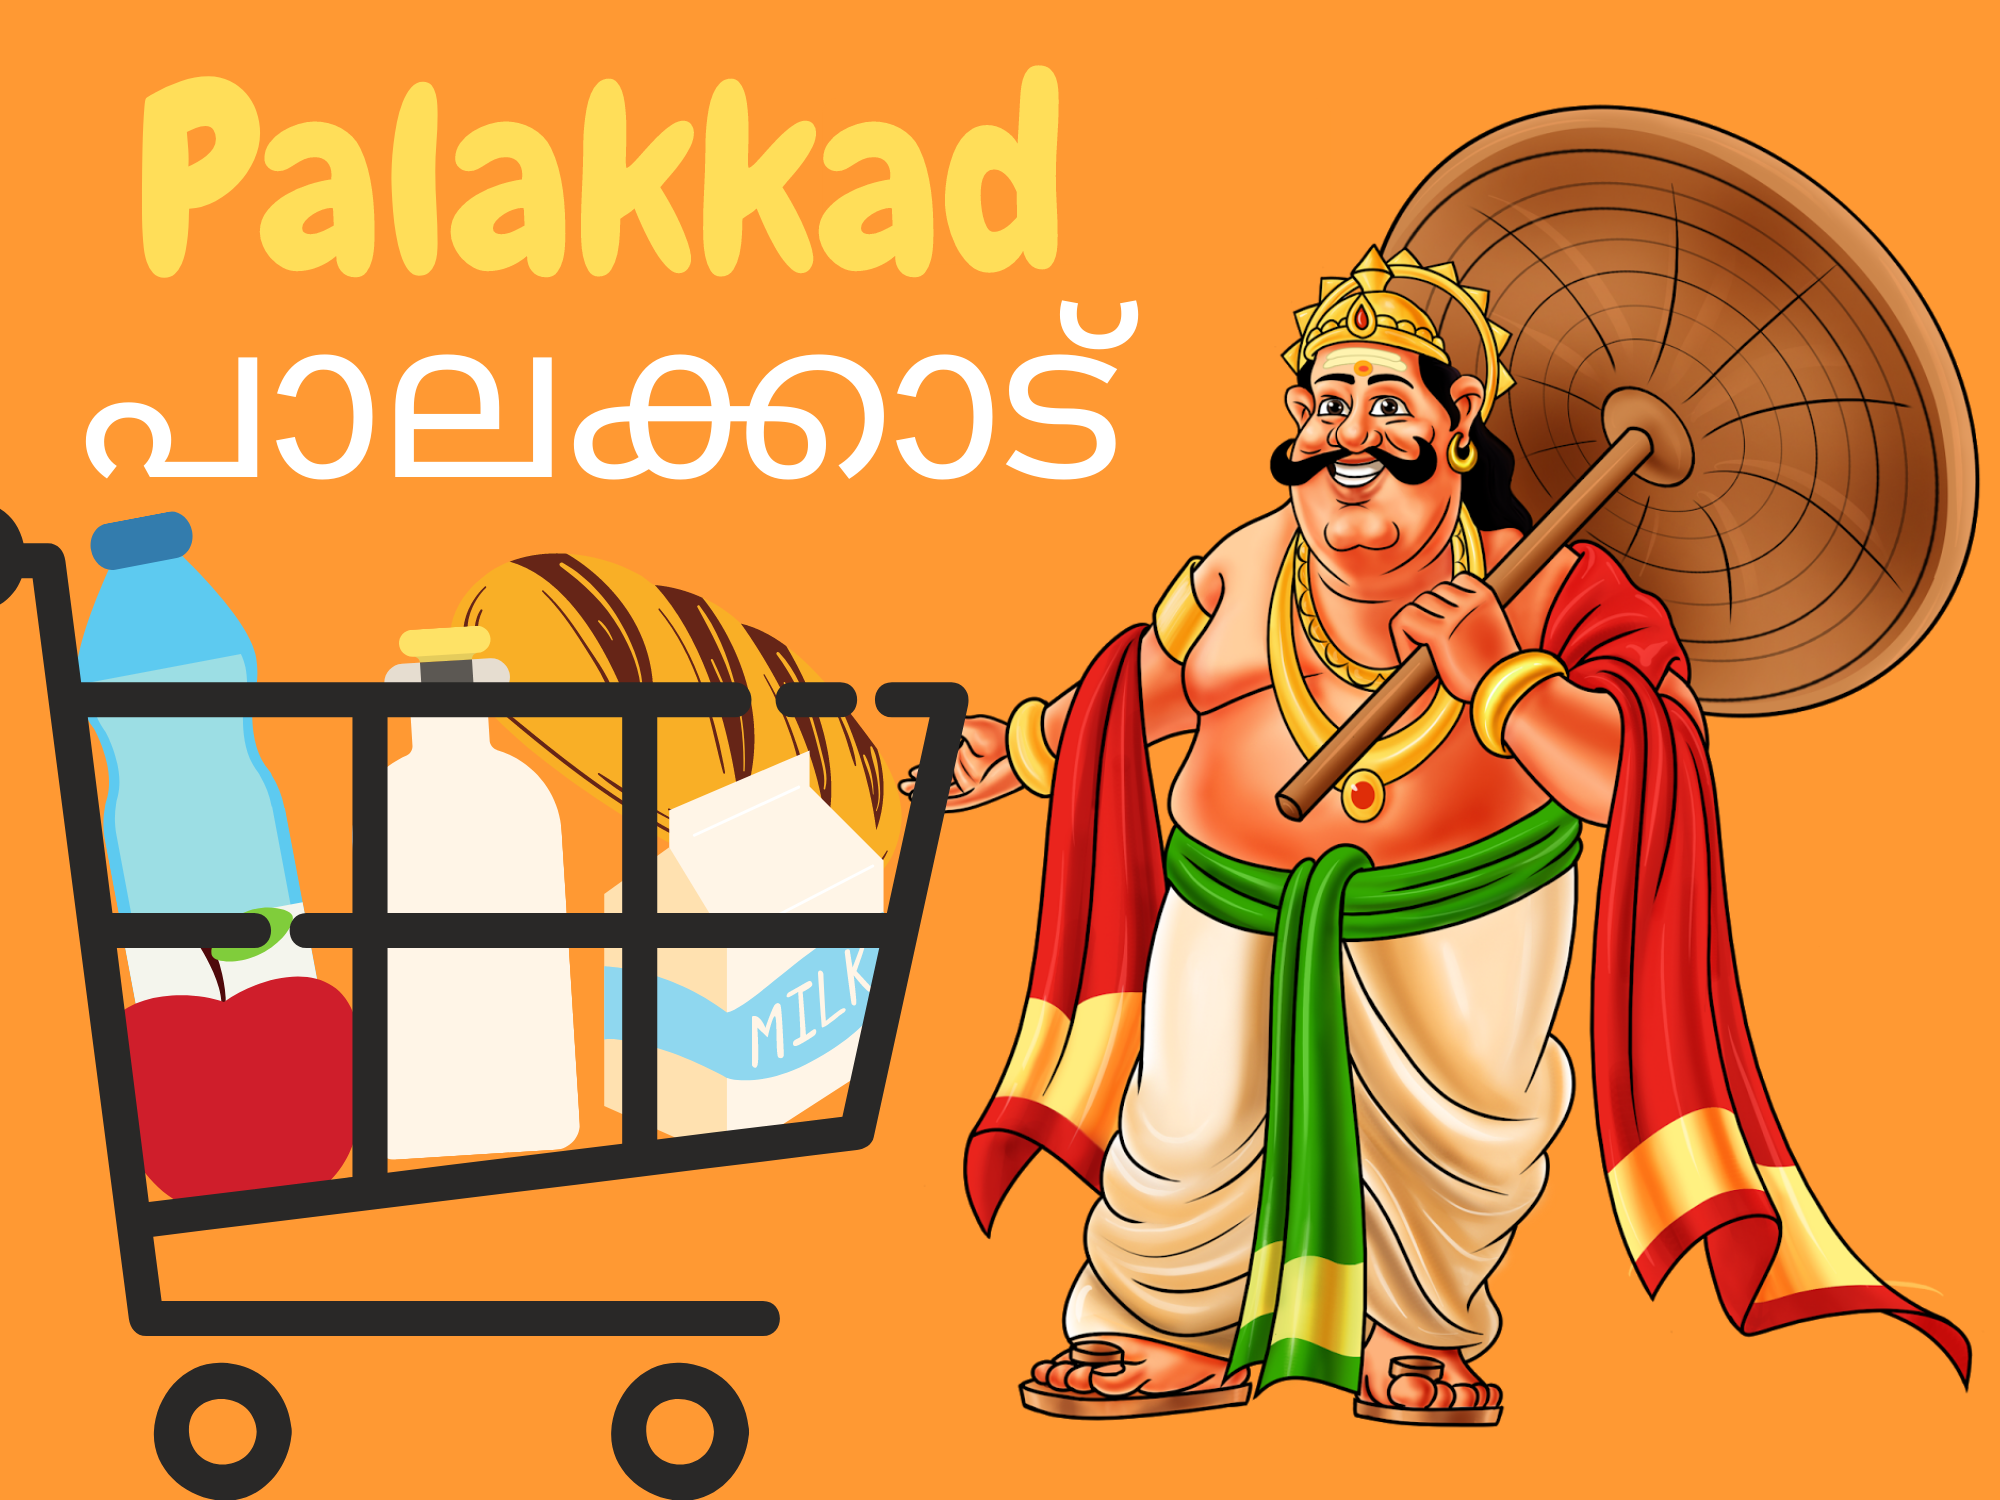
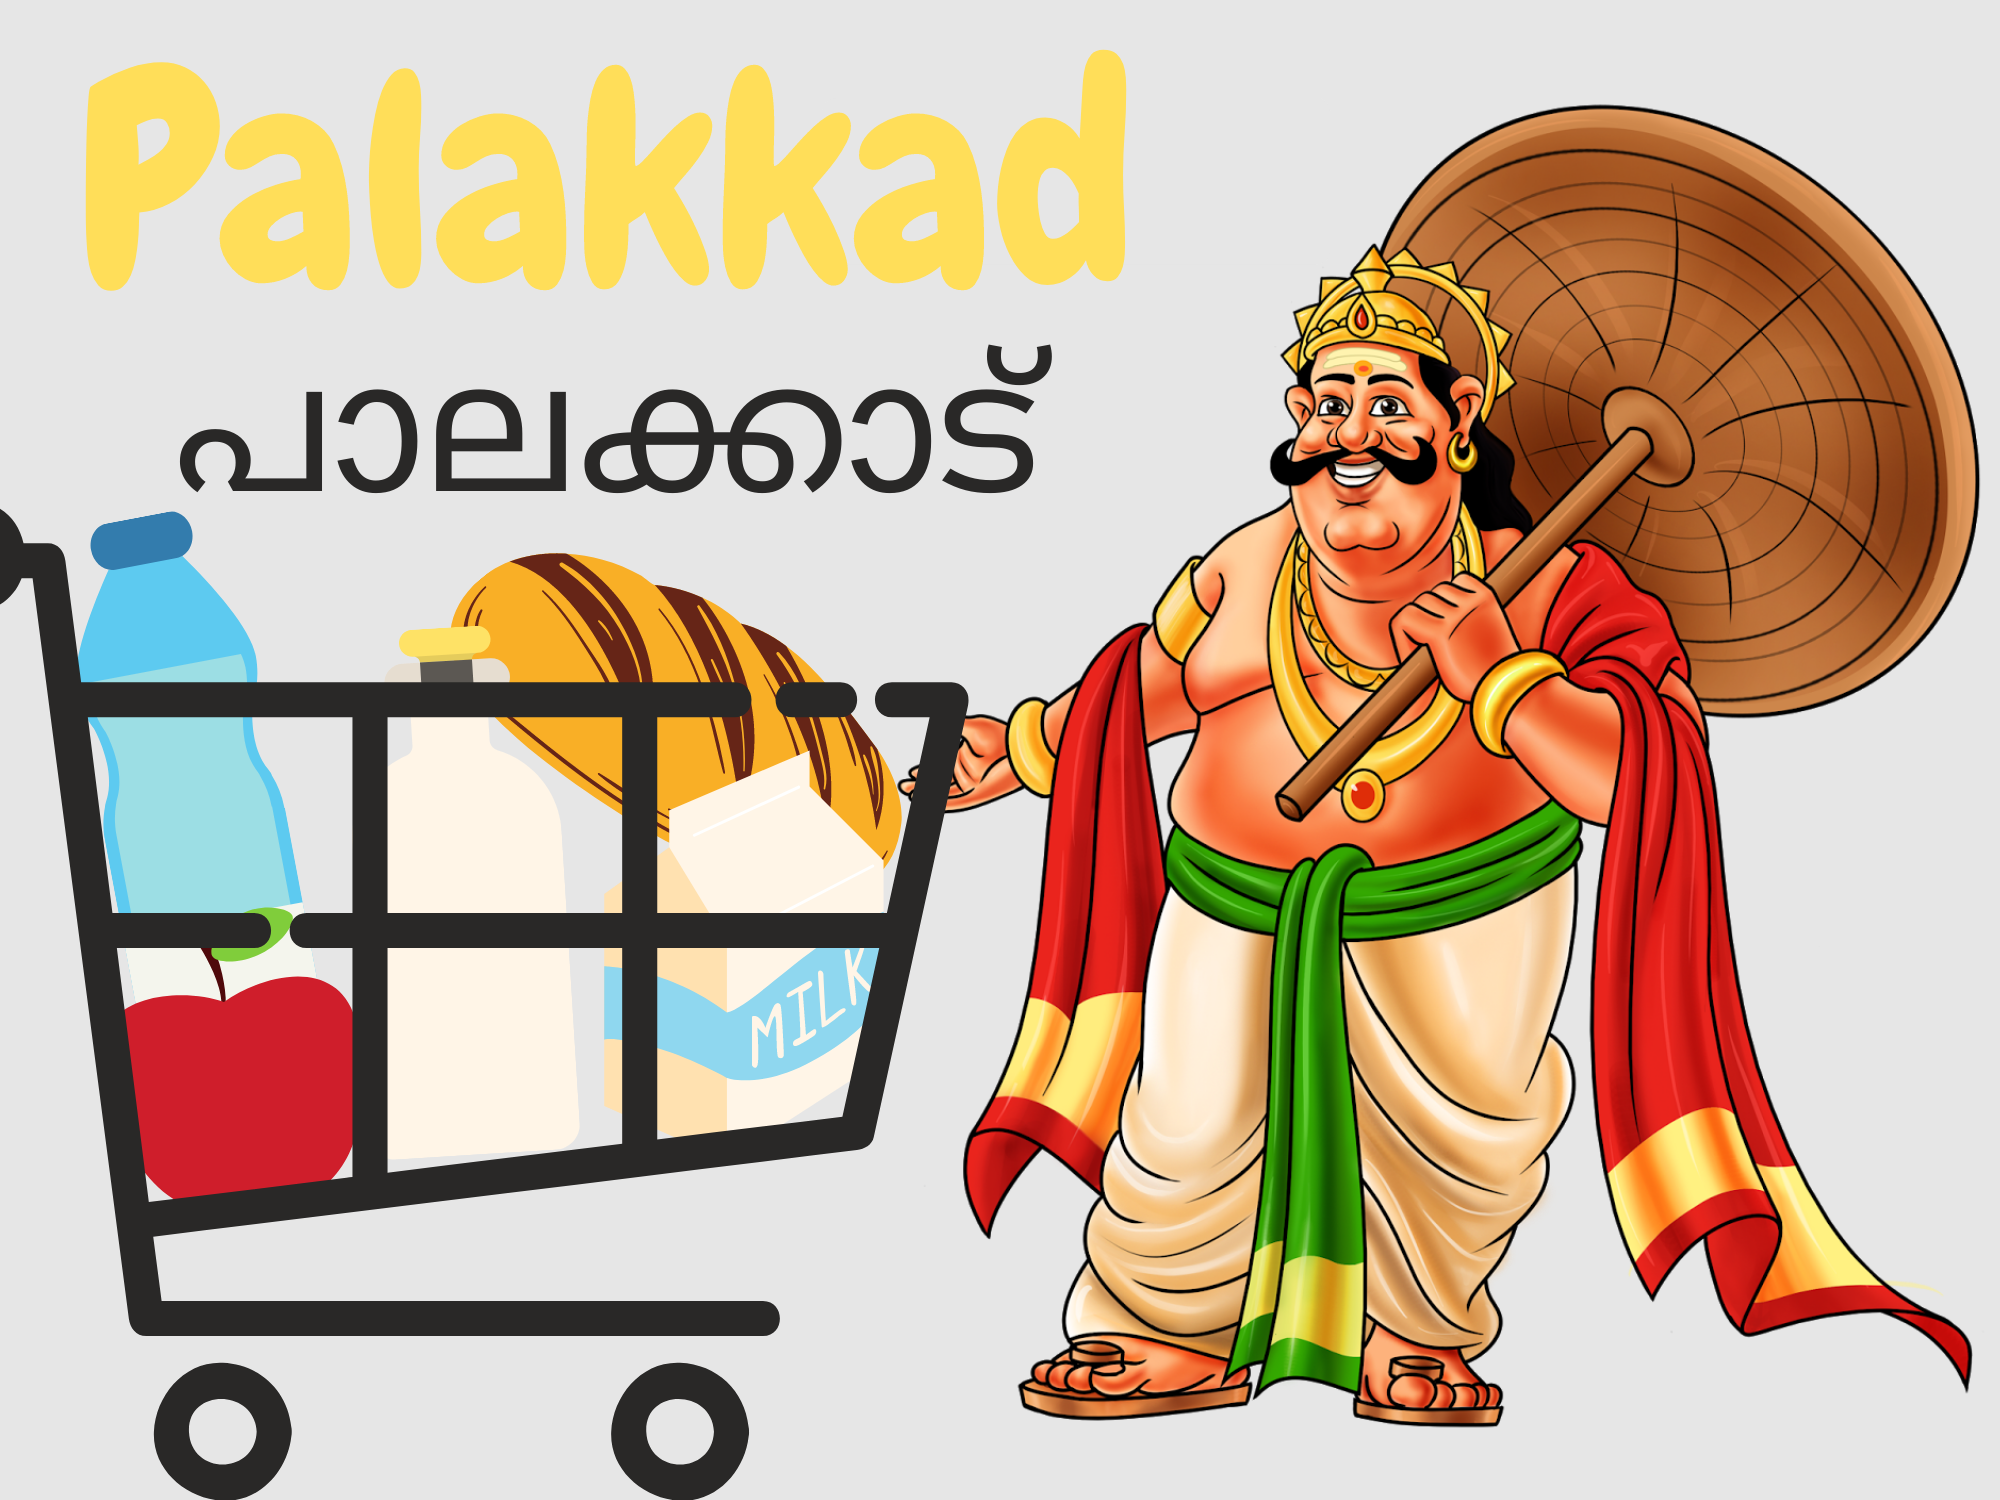
Front UI, Location, Navbar updated

diff --git a/static/css/main.css b/static/css/main.css
@@ -3,14 +3,46 @@
   padding: 0;
 }
 .head {
-    overflow: hidden;
-    background: #FF9933;
-    height: 6em;
-    display: flex;
+  background: #e6e6e6;
+  opacity: 0.9;
+  padding-left: 5px;
+  display: flex;
+  justify-content: space-between;
 }
 .head img {
-  width: 55%;
-  height: 6em;
+  width: 40%;
+}
+.logo {
+    width: 60%;
+}
+.location {
+  display: flex;
+  margin: auto;
+  margin-right: 10px;
+}
+#demo input[type="text"] {
+    border: none;
+    border-radius: 20px;
+    padding: 2px 3px;
+    width: 40%;
+}
+#demo input[type="submit"] {
+    border:none;
+    border-radius: 2px;
+    padding: 2px 3px;
+}
+#demo {
+    background: #262626;
+    opacity: 0.8;
+    justify-content: space-between;
+    padding: 5px 10px;
+}
+#demo .material-icons {
+    float: right;
+    color: #f2f2f2;
+}
+.material-icons{
+  cursor:pointer;
 }
 body{
   background: url(background_img/background3.jpg);
@@ -19,23 +51,6 @@ body{
 }
 
 /*navbar*/
-.location{
-  width: 30%;
-  text-align: center;
-}
-.location-btn {
-    text-align: center;
-    margin-top: 30px;
-    margin-right: 5px;
-}
-.location-btn button{
-  background: none;
-  border: none;
-}
-.location-btn button:hover{
-  background: #FFCC33;
-  border: none;
-}
 .dropbtn {
   background-color: #FFCC33;
   color: white;
@@ -78,43 +93,72 @@ body{
 .dropdown:hover .dropbtn {background-color: #F4511E;}
 /*end*/
 
-.search-field h3{
-  margin: 0;
-  color: slategrey;
+.nav-field{
+  background: #262626;
+  opacity: 0.8;
+  display: flex;
+  justify-content: space-between;
 }
-.search-field{
-  background: #ffe6cc;
-  padding: 7px 5px;
-  text-align: right;
+.nav-items{
+  padding: 10px 20px;
 }
-.search-field input[type= "text"]{
-  border:none;
-  border-radius: 5px;
-  width: 60%;
+.nav-items p{
+    color: white;
+    display: none;
+    margin: 0
 }
-.search-field input[type= "submit"]{
-  border:none;
-  border-radius: 5px;
-  width: 20%;
+.nav-items .material-icons {
+    color: white;
 }
-.search-field input[type= "text"]:hover{
-  border:none;
+.nav-items:hover{
+  background: #d9d9d9;
+  color: #262626;
 }
+.nav-items a:hover{
+  text-decoration: none;
+  color: #262626;
+}
+.nav-items p:hover{
+  text-decoration: none;
+  color: #262626;
+}
+.nav-items .material-icons:hover {
+    color: #262626;
+}
+
 .containers {
     padding: 10px 10px;
     background: #D9D9D9;
 }
+form.box{
+  padding-top: 10px;
+  margin-top: 10px;
+  margin-bottom: 15px;
+}
+form.box input[type="submit"]{
+  height: 10%;
+  background: #ffcc33;
+  color: #fff;
+  border-radius: 50px;
+  border: none;
+  box-shadow: 0 3px 0 0 #ff9933;
+	font-size: 22px;
+  padding: 0px 10px;
+  margin-bottom: 10px;
+}
+form.box input[type="submit"]:hover{
+  background: #ff9933;
+  box-shadow: 0 3px 0 0 #ffcc33;
+}
 
 /* Input field sections */
 .box{
-    position: absolute;
-    top: 60%;
-    left: 50%;
-    transform: translate(-50%,-50%);
+    margin: auto;
     background: white;
     text-align: center;
     box-shadow: 10px 10px 5px grey;
-    width: 23em;
+    width: 80%;
+    margin-top: 25px;
 }
 .box h3{
     color: black;
@@ -228,8 +272,7 @@ body{
     background: #f2f2f2;
     width: 80%;
     margin: auto;
-    height: 4em;
-    padding: 5px;
+    padding: 10px;
     margin-bottom: 10px;
 }
 .detail-head {
@@ -241,18 +284,26 @@ body{
 }
 
 @media (min-width: 490px) {
-  .head{
-    height: 7em;
-  }
   .head img{
-    width: 35%;
-    height: 7em;
+    width: 30%;
   }
   .dropbtn{
     height: 98px;
   }
 }
 @media (min-width: 768px) {
+  .nav-items p{
+    display: block;
+  }
+  .nav-items p:hover{
+    text-decoration: none;
+  }
+  .nav-items .material-icons {
+      display: none;
+  }
+  .nav-field{
+    justify-content: flex-start;
+  }
   .box{
     top: 50%;
   }
@@ -263,16 +314,10 @@ body{
     height: 32em;
   }
   .head img{
-    width: 26%;
+    width: 20%;
   }
   .dropbtn{
     padding: 20px;
-  }
-  .search-field input[type= "text"]{
-    width: 40%;
-  }
-  .search-field input[type= "submit"]{
-    width: 10%;
   }
   .box textarea, .box input[type= "text"], .box input[type= "number"],.box input[type= "file"]{
     width: 65%;
@@ -302,12 +347,9 @@ body{
   .box{
     top: 60%;
   }
-  .head{
-    height: 9em;
-  }
+
   .head img{
-    width: 22%;
-    height: 9em;
+    width: 15%;
   }
   .dropbtn{
     height: 125px;
@@ -318,13 +360,6 @@ body{
   }
 }
 @media (min-width: 1200px) {
-  .head{
-    height: 8em;
-  }
-  .head img{
-    width: 17%;
-    height: 8em;
-  }
   .dropbtn{
     height: 7em;
   }

diff --git a/templates/base.html b/templates/base.html
@@ -11,62 +11,32 @@
     <title>Palakkad Online Store</title>
   </head>
   <body>
+    <div id="demo" class="collapse">
+      <input type="text" name="location" placeholder=" Enter your current location" id="myInput">
+      <input type="submit" onclick="getInputValue()" name="submit_button" value="Change Location">
+      <span class="material-icons" data-toggle="collapse" data-target="#demo">arrow_drop_up</span>
+    </div>
     <div class="head">
       <div class="logo">
-          <a href="/"><img src="{{ url_for('static', filename='header_img/header2.png')}}" alt="Palakkad, പാലക്കാട് "></a>
+        <a href="/"><img src="{{ url_for('static', filename='header_img/header1.png')}}" alt="Palakkad, പാലക്കാട് "></a>
       </div>
-
-<!--      <div class="location">
-        <div class="location-btn">
-          <button onclick="getLocation()"><span class="material-icons">gps_fixed</span></button>
-        </div>
-        <div class="location-details">
-          <p id="demo"></p>
-        </div>
+      <div class="location" data-toggle="collapse" data-target="#demo">
+        <p id="location_demo"></p>
         <script>
-        var x = document.getElementById("demo");
-
-        function getLocation() {
-          if (navigator.geolocation) {
-            navigator.geolocation.getCurrentPosition(showPosition, showError);
-          } else {
-            x.innerHTML = "Geolocation is not supported by this browser.";
+          function getInputValue(){
+              var inputVal = document.getElementById("myInput").value;
+              document.getElementById("location_demo").innerHTML = inputVal;
           }
-        }
-
-        function showPosition(position) {
-          x.innerHTML = position.coords.latitude.toFixed(2) +
-          "," + position.coords.longitude.toFixed(2);
-        }
-
-        function showError(error) {
-          switch(error.code) {
-            case error.PERMISSION_DENIED:
-              x.innerHTML = "User denied the request for Geolocation."
-              break;
-            case error.POSITION_UNAVAILABLE:
-              x.innerHTML = "Location information is unavailable."
-              break;
-            case error.TIMEOUT:
-              x.innerHTML = "The request to get user location timed out."
-              break;
-            case error.UNKNOWN_ERROR:
-              x.innerHTML = "An unknown error occurred."
-              break;
-          }
-        }
-        </script>
-      </div> --> <!--Uncomment to avail GEOPOSITION Feature-->
-
-      <div class="dropdown">
-        <button class="dropbtn">Options</button>
-        <div class="dropdown-content">
-          <a href="/">Home</a>
-          <a href="/stores">Store On Board</a>
-          <a href="/contact_us">Contact Us</a>
-          <a href="/about_us">About Us</a>
-        </div>
+      </script>
+        <span class="material-icons">location_on</span>
       </div>
+    </div>
+    <div class="nav-field">
+      <div class="nav-items"><a href="/"><p>Home</p><span class="material-icons">home</span></a></div>
+      <div class="nav-items"><a href="/stores"><p>Store On Board</p><span class="material-icons">store</span></a></div>
+      <div class="nav-items"><a href="/contact_us"><p>Contact Us</p><span class="material-icons">contact_support</span></a></div>
+      <div class="nav-items"><a href="/about_us"><p>About Us</p><span class="material-icons">supervisor_account</span></a></div>
+      <div class="nav-items"><a href="/search_result"><p>Search</p><span class="material-icons">search</span></a></div>
     </div>
     {% include "includes/_message.html" %}
     {% block body %}{% endblock %}

diff --git a/templates/index.html b/templates/index.html
@@ -1,11 +1,5 @@
 {% extends 'base.html' %}
 {% block body %}
-  <div class="search-field">
-    <form action="{{url_for('index')}}" method="POST" enctype="multipart/form-data">
-      <input type="text" name="search_field" placeholder=" Search by your order id...">
-      <input type="submit" name="submit_button" value="Search">
-    </form>
-  </div>
   <div class="containers">
     <div id="myCarousel" class="carousel slide" data-ride="carousel">
       <!-- Indicators -->

diff --git a/templates/search_result.html b/templates/search_result.html
@@ -1,5 +1,9 @@
 {% extends 'base.html' %}
 {% block body %}
+  <form class="box" action="{{url_for('search_result')}}" method="POST" enctype="multipart/form-data">
+    <input type="text" name="search_field" placeholder=" Search by your order id...">
+    <input type="submit" name="submit_button" value="Search">
+  </form>
   <div class="container box">
     <h3>Seacrh Result</h3>
     <div class="details">

diff --git a/app.py b/app.py
@@ -6,12 +6,15 @@ app = Flask(__name__)
 app.config['SECRET_KEY'] = '1234567ONLINESTORE'
 APP_ROOT = os.path.dirname(os.path.abspath(__file__))
 
+
 @app.route('/', methods=["GET","POST"])
 def index():
     files = os.listdir('./static/store_img')
     count = len(files)
     if request.method == "POST":
-        return redirect(url_for('search_result'))
+        global location
+        location = request.form.get("location")
+        return render_template('base.html', location=location)
     return render_template('index.html', files=files, count=count)
 
 @app.route('/order', methods=["GET", "POST"])
@@ -60,8 +63,10 @@ def about_us():
 def contact_us():
     return render_template('contact_us.html')
 
-@app.route("/search_result")
+@app.route("/search_result", methods=["GET","POST"])
 def search_result():
+    if request.method == "POST":
+        return redirect(url_for('search_result'))
     return render_template('search_result.html')
 
 
